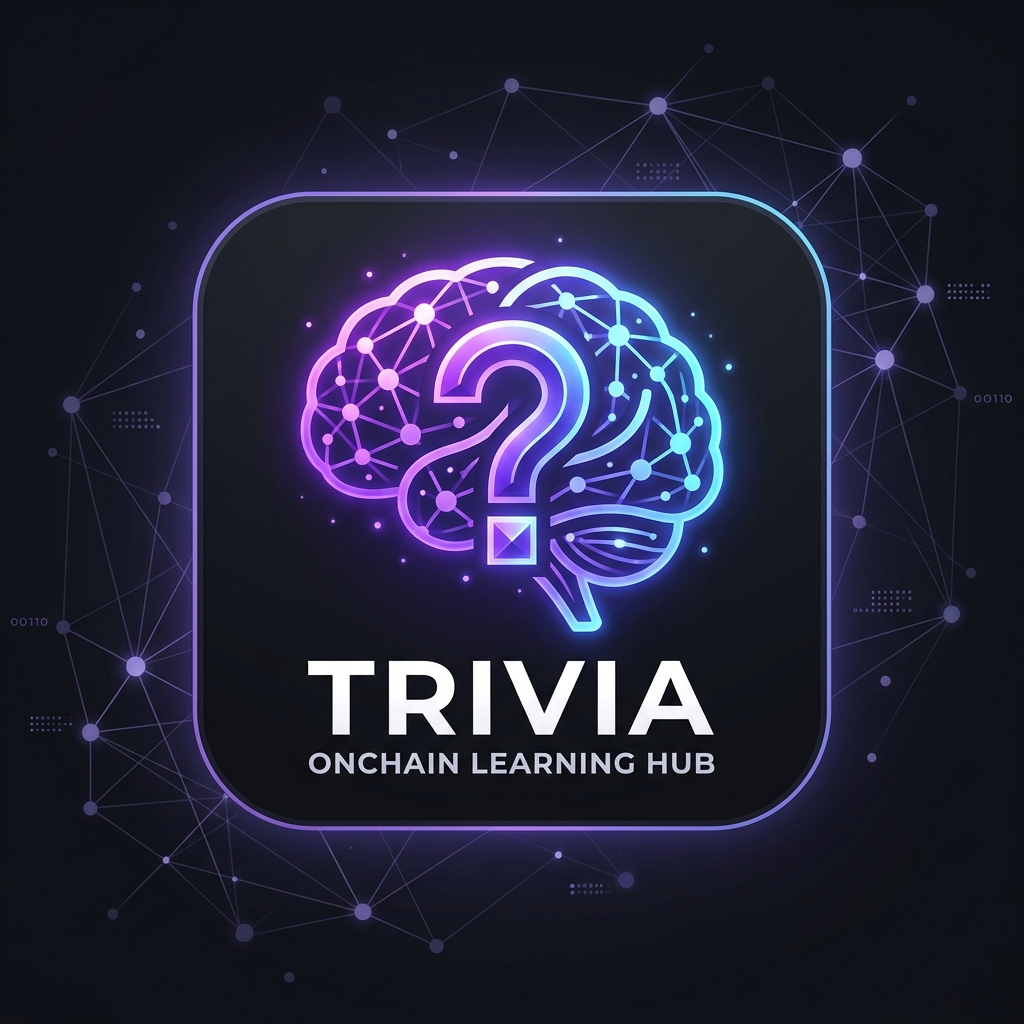
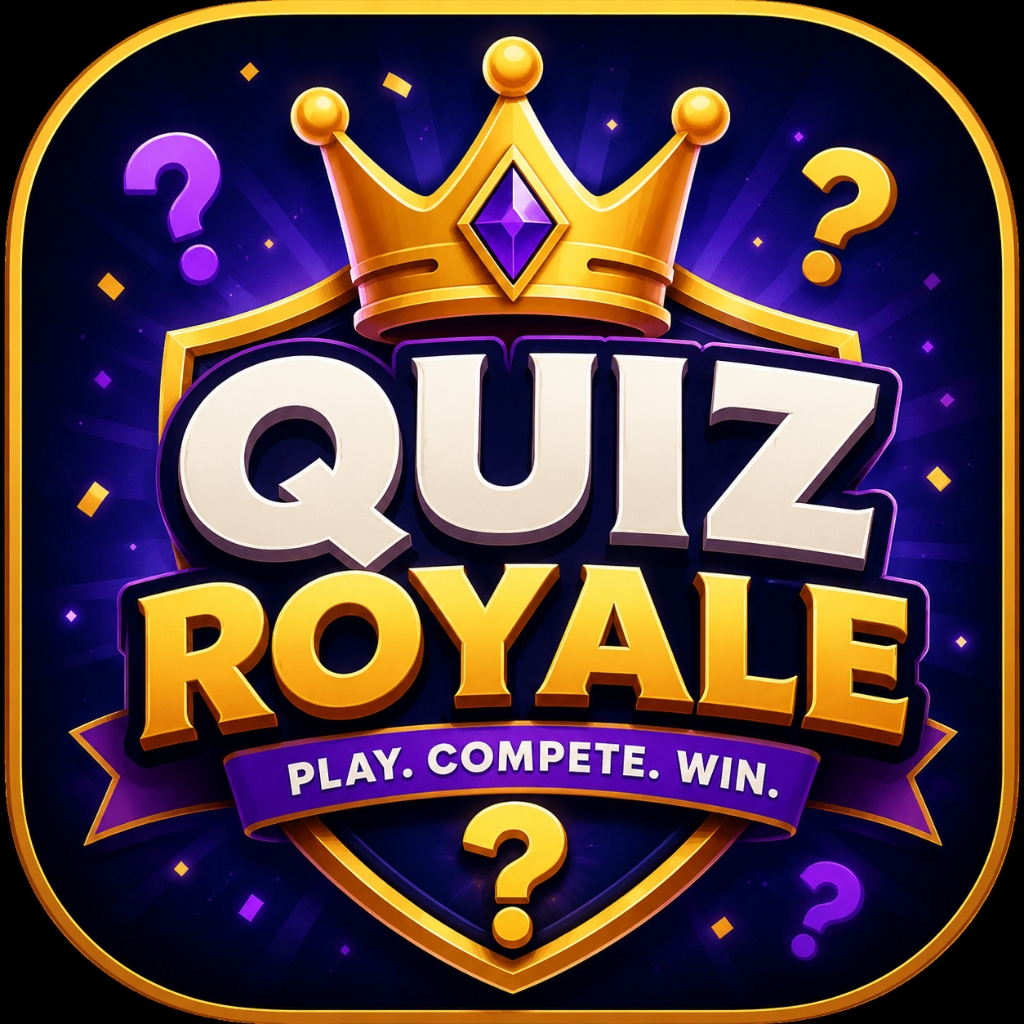
Rebrand to Quiz Royale

diff --git a/app/layout.tsx b/app/layout.tsx
@@ -4,8 +4,8 @@ import { LanguageProvider } from '@/context/LanguageContext';
 import LanguageSelector from '@/components/LanguageSelector';
 
 export const metadata: Metadata = {
-    title: 'Trivia & Onchain Learning Hub',
-    description: 'A casual trivia app for learning and earning.',
+    title: 'Quiz Royale',
+    description: 'Compete, climb the leaderboard and become the trivia champion.',
     other: {
         "fc:frame": JSON.stringify({
             version: "next",

diff --git a/data/i18n.ts b/data/i18n.ts
@@ -36,7 +36,7 @@ export type TranslationKeys =
 
 export const TRANSLATIONS: Record<Lang, Record<TranslationKeys, string>> = {
     es: {
-        "app.title": "Trivia & Onchain Learning Hub",
+        "app.title": "Quiz Royale",
         "app.subtitle": "Aprende, juega y gana (pronto en Base)",
         "home.streak": "Racha",
         "home.points": "Puntos",
@@ -70,7 +70,7 @@ export const TRANSLATIONS: Record<Lang, Record<TranslationKeys, string>> = {
         "challenge.result.home": "Volver al inicio",
     },
     en: {
-        "app.title": "Trivia & Onchain Learning Hub",
+        "app.title": "Quiz Royale",
         "app.subtitle": "Learn, play and win (coming soon on Base)",
         "home.streak": "Streak",
         "home.points": "Points",

diff --git a/README.md b/README.md
@@ -1,4 +1,4 @@
-# Trivia & Onchain Learning Hub
+# Quiz Royale
 
 ## Setup
 